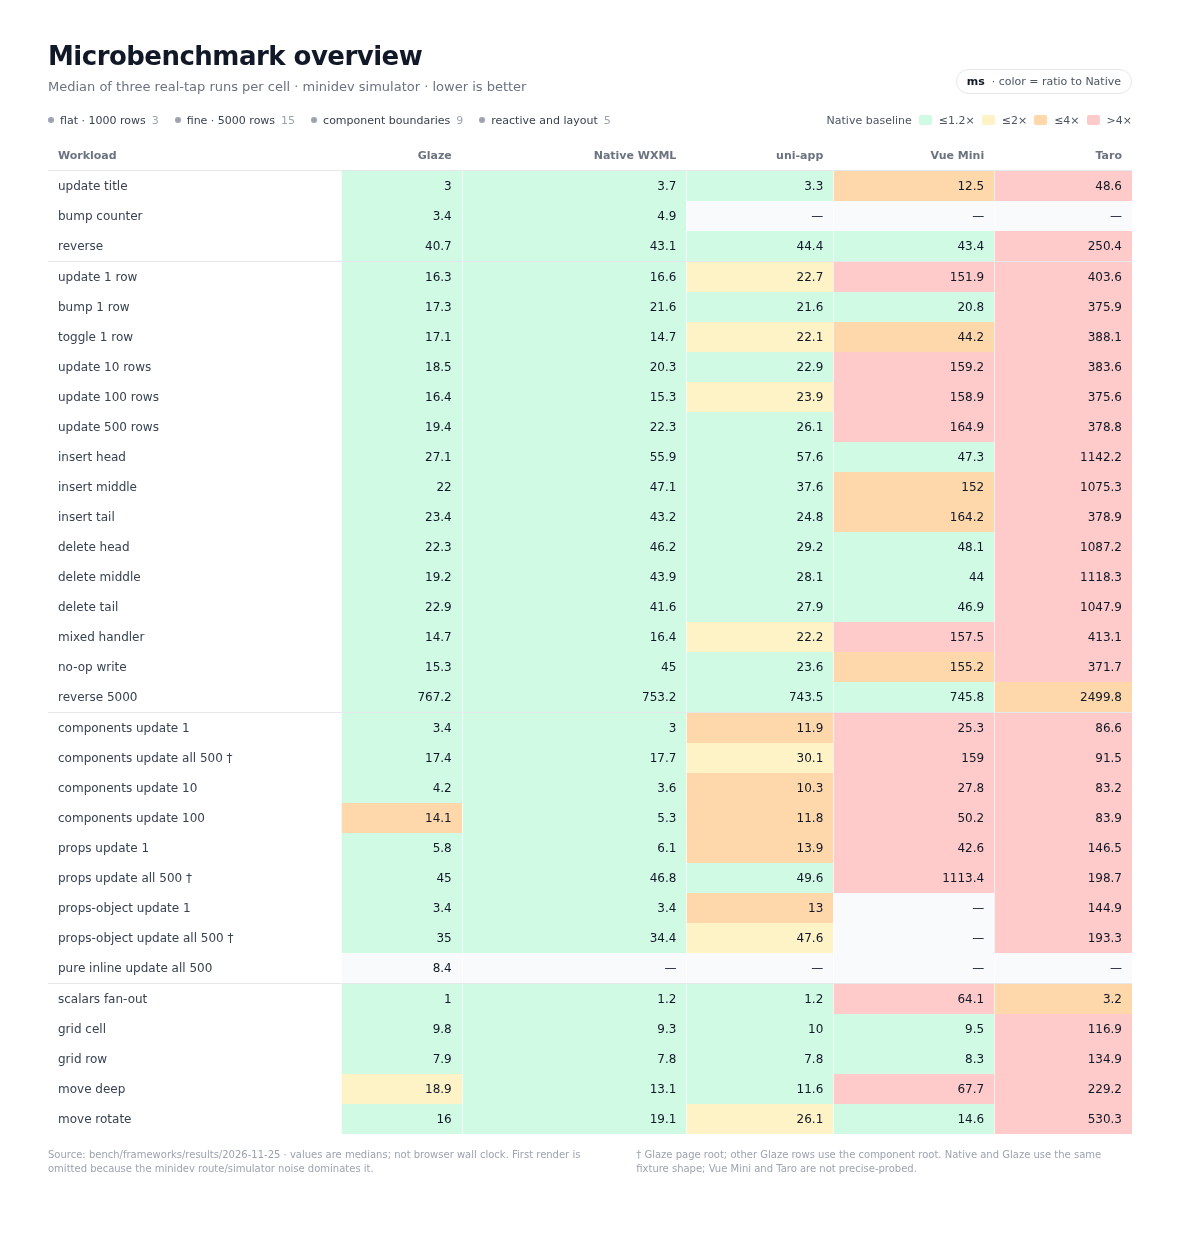
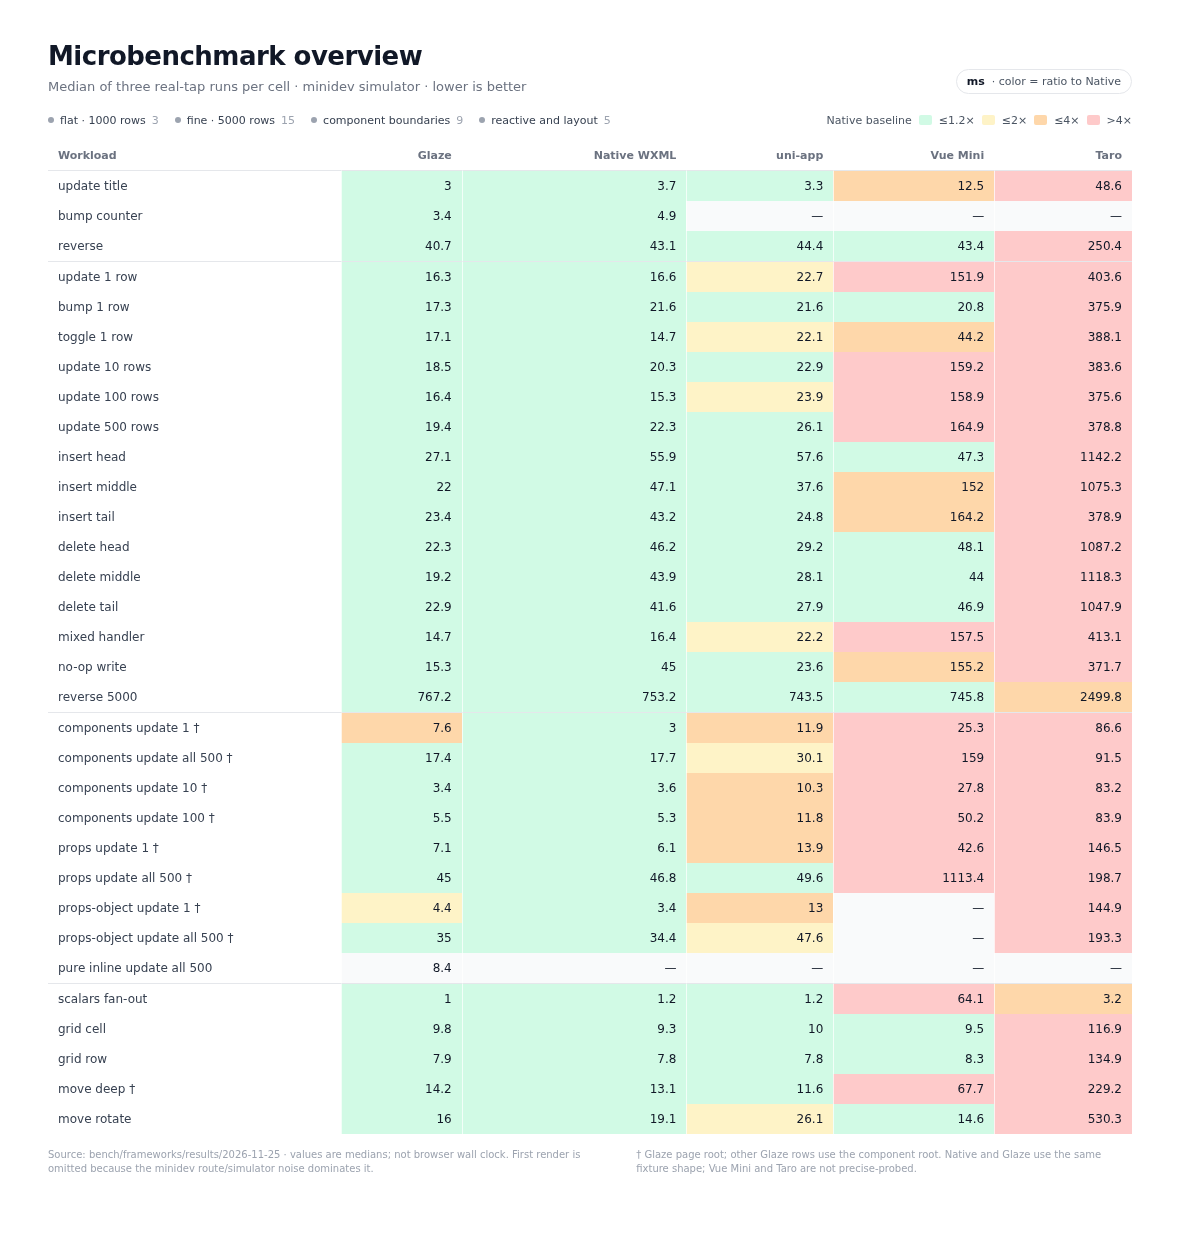
docs: clarify benchmark wins and extend page-root cases

diff --git a/docs/page-runtime.md b/docs/page-runtime.md
@@ -98,7 +98,9 @@ the per-child work, so native is still slightly ahead.
 
 A separate `bench-component-rows` case (500 stateful children with 8 props)
 measured 60.1 ms on the component root and 15.6–23.3 ms on the page root in an
-earlier run.
+earlier run. In the current 500-row run, `update 100` is 14.1 ms on the
+component root and 5.5 ms on the page root; native is 5.3 ms, so this case is
+already at the native floor once the page root is selected.
 
 Page root also applies to the other component-heavy fixtures:
 
@@ -124,7 +126,7 @@ pages:
 
 | Case | Component root | Page root | Native |
 | --- | ---: | ---: | ---: |
-| move deep, 2000 rows | 18.9 ms | **12.1 (11.6–13.0) ms** | 13.1 ms |
+| move deep, 2000 rows | 18.9 ms | **14.2 (12.7–17.7) ms** | 13.1–14.2 ms |
 | fine update 1 row, 5000 rows | 16.3 ms | 27.9 (20.1–28.9) ms | 16.6 ms |
 | fine toggle 1 row | 17.1 ms | 19–24 ms | 14.7 ms |
 | fine insert 1 row | 27.1 ms | 24.9–38 ms | 55.9 ms |

diff --git a/bench/frameworks/README.md b/bench/frameworks/README.md
@@ -523,9 +523,16 @@ the props pages; the remaining 1000+1000 gap is the per-child Glaze runtime and
 WXML projection.
 
 Page root is not universal: on `bench-move`, `deep` drops from 18.9 ms
-(component root) to 12.1 ms (page root), but on `bench-fine` the one-row
+(component root) to 14.2 ms (page root), but on `bench-fine` the one-row
 `update` rises from 16.3 ms to 27.9 ms. Keep it opt-in per route and optimize
 for that route's dominant interaction.
+
+Some Glaze cells are faster than native for a concrete fixture reason: the
+native `fine` insert/delete handlers resend all 5000 rows including the unused
+2 KB `extra` field, and the native `no-op` maps every row and sends the whole
+array; Glaze projects the fields WXML reads and short-circuits an unchanged
+list. Those are implementation comparisons, not a claim that Glaze is
+generally faster than a hand-optimized native page.
 
 ```bash
 # Page-root pages have no component target; omit --root.

diff --git a/README.md b/README.md
@@ -101,6 +101,12 @@ Glaze's page root; the other Glaze rows use the component root. First render is
 omitted because minidev routing and simulator noise dominate it. The raw results
 and the `bench/frameworks/chart.mjs` renderer are in the repository.
 
+Some Glaze wins are fixture-specific: the native `fine` insert/delete handlers
+resend all 5000 rows including the unused 2 KB `extra` field, and native
+`no-op` resends the whole array; Glaze projects the fields WXML reads and
+short-circuits unchanged lists. These cells compare these two implementations,
+not a generally optimized native baseline.
+
 These are **same-harness** numbers: Glaze versus a hand-written
 WXML/WXSS/JS page, measured in the minidev simulator with the automator. They
 include page routing and automator round-trips, so they compare the two pages

diff --git a/docs/optimizations.md b/docs/optimizations.md
@@ -15,6 +15,12 @@ all microbenchmark pages, including the 5000-row list actions, component and
 prop boundaries, pure inline rows, scalars, grid and keyed moves. Generate it
 with `node bench/frameworks/chart.mjs`; no SVG step is involved.
 
+Some Glaze wins are fixture-specific: native `fine` insert/delete resend all
+5000 rows including the unused 2 KB `extra` field, and native `no-op` resends
+the whole array; Glaze projects only rendered fields and short-circuits an
+unchanged list. Treat those cells as implementation comparisons rather than a
+general framework ranking.
+
 ## Why the current benchmark is not enough
 
 `pages/bench/index` renders a flat `wx:for`:
